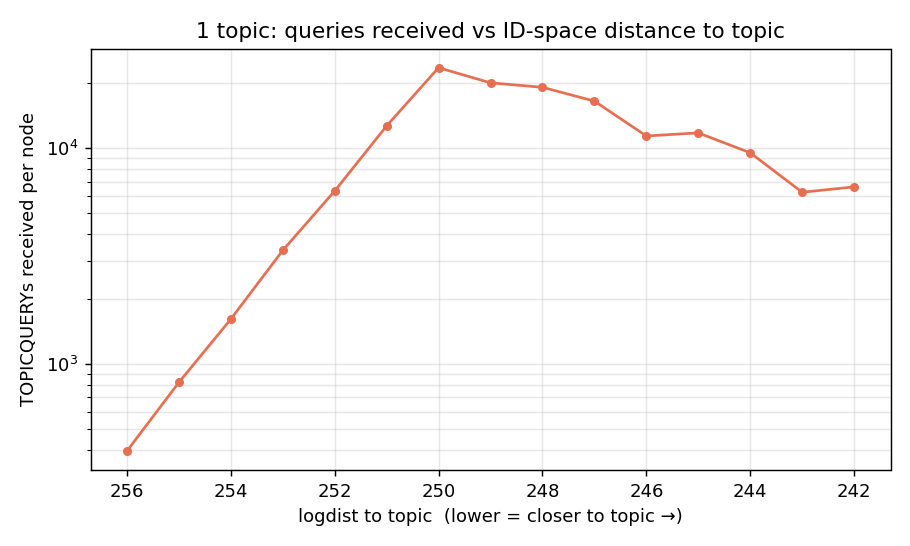
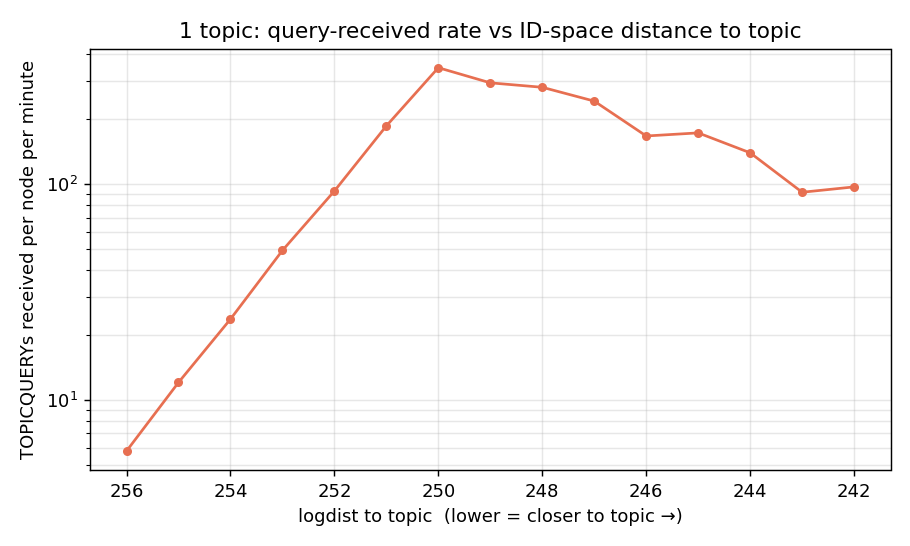
docs/eval: registration figures from clean-10k (reg1 single, reg5 mirrored); overhead figures as per-time rates

diff --git a/docs/eval/report-single-topic-reg3-10k.md b/docs/eval/report-single-topic-reg3-10k.md
@@ -23,19 +23,21 @@ Every one of the 10,000 registrants is discovered by at least one searcher, and 
 
 ## Registration
 
-Registration is healthy and complete — **all 10,000 ads placed, none unplaced, neverFound = 0**. Every registrant is discovered by at least one searcher. With `reg-bucket-size=3` the fan-out (distinct registrars holding each ad) is a lean **median 13** (min 3, max 39) — fewer active slots per bucket than reg-10's ~46, by design.
+Registration is healthy and complete — **all 10,000 ads placed, well-replicated, no ad unplaced, neverFound = 0**. Every registrant is discovered by at least one searcher.
 
-**Fan-out and per-host load.** (a) how many registrars hold each ad; (b) how many ads each registrar holds for the topic.
+**A — registrations per registrant (fan-out).** Every ad is placed and well-replicated across distinct registrars.
 
-![fan-out and per-host load](figures-reg3fix-single/06_fanout_both_views.png)
+![registrations per registrant](figures-reg3fix-single/reg1_A_replication.png)
 
-**Registrants across ID-space.** Admitted registrars concentrate around the topic id.
+**B — registrar load (ads held per registrar).** Most registrars hold a modest number of ads; the registrars closest to the topic id hold the most.
 
-![registrants across ID-space](figures-reg3fix-single/04_id_space_registrants.png)
+![registrar load](figures-reg3fix-single/reg1_B_load.png)
 
-**Registration latency.** Mean ± 1σ time to first remote admission (~310 s).
+**D — registrations per registrar across ID-space.** Load concentrates sharply at the topic id; the closest registrars carry the heaviest load.
 
-![registration latency](figures-reg3fix-single/07_registration_latency_bar.png)
+![registrations across ID-space](figures-reg3fix-single/reg1_D_idspace.png)
+
+Registration is complete and healthy — it was never the bottleneck.
 
 ## Search results
 
@@ -81,8 +83,9 @@ Within logdist 250 of the topic there are only ~80 registrars; beyond it, thousa
 Per-node traffic across the ID space (`logdist(topic, node)`; lower = closer to the
 topic, ~half the nodes at logdist 256 at the far end), from an instrumented re-run
 of this config (`-overhead-out`, integration build = `topdisc` + #71/#81/#83/#84).
-It **measures the topic-center funnel directly**. Four per-node inbound/traffic
-views:
+It **measures the topic-center funnel directly**. Figures are shown as per-node
+**rates** (cumulative counters ÷ the ~68-min active run = bootstrap + register +
+search); the summary table is cumulative. Four per-node inbound/traffic views:
 
 ### 1. Queries received (TOPICQUERY)
 

diff --git a/docs/eval/report-5-topics-reg3-10k.md b/docs/eval/report-5-topics-reg3-10k.md
@@ -22,7 +22,21 @@
 
 ## Registration
 
-Registration is healthy and complete — **all ads placed, none unplaced, neverFound = 0** across all five topics. With spread topic IDs, each topic occupies its own keyspace region, so there is no inter-topic registrar contention.
+Registration is healthy and complete — **all ads placed, well-replicated, none unplaced, neverFound = 0** across all five topics. With spread topic IDs, each topic occupies its own keyspace region, so there is no inter-topic registrar contention.
+
+**A — registrations per registrant (fan-out), by topic.** Every ad is placed and well-replicated on each topic.
+
+![registrations per registrant, by topic](figures-5top-reg3-spread/reg5_A_replication.png)
+
+**B — registrar load (ads held per registrar), by topic.** Load scales with topic size; the closest registrars to each topic id hold the most.
+
+![registrar load, by topic](figures-5top-reg3-spread/reg5_B_load.png)
+
+**D — registrations per registrar across ID-space, by topic.** Each topic's load concentrates at its own id; with spread topic IDs the five funnels are separate.
+
+![registrations across ID-space, by topic](figures-5top-reg3-spread/reg5_D_idspace.png)
+
+Registration is complete and healthy across all topics — it was never the bottleneck.
 
 ## Search results
 
@@ -51,7 +65,9 @@ node mapped to *its own* topic via the registrant manifest (all 10,000 mapped), 
 an instrumented re-run (`-overhead-out`, integration build = `topdisc` +
 #71/#81/#83/#84). This is the follow-up the prior version promised (the earlier
 run's dump exceeded the teardown watchdog before writing `overhead.json`; the grace
-is now 90 min and the metrics compacted). Four per-node inbound/traffic views:
+is now 90 min and the metrics compacted). Figures are shown as per-node **rates**
+(cumulative counters ÷ the ~68-min active run); the summary table is cumulative.
+Four per-node inbound/traffic views:
 
 ### 1. Queries received (TOPICQUERY)
 
